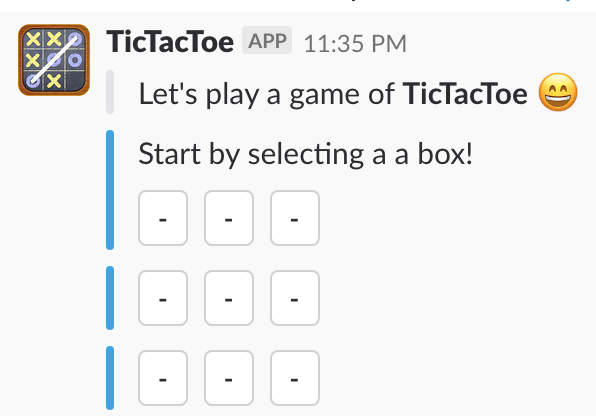
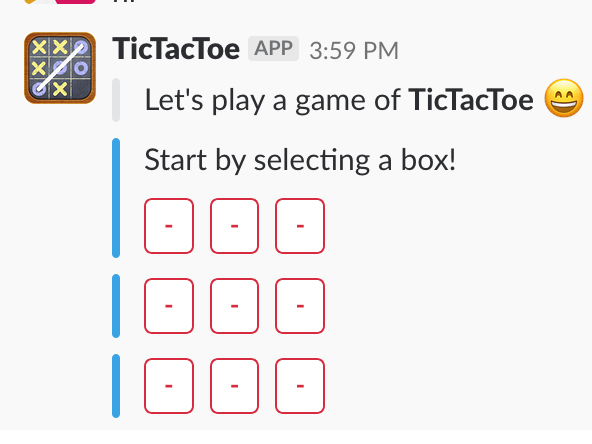
Formating of the codebase & Json Server runtime file updates with content reset once a play is a WIN/DRAW Update colors to the board for completeness Update Readme with documentation Adding Pics
TODO:
Test Cases
Readme

diff --git a/server/server.js b/server/server.js
@@ -1,92 +1,41 @@
 const express = require('express')
 require('dotenv').config()
-const request = require('request')
 const bodyParser = require('body-parser')
 const ticktactoe = require('./tictactoe')
-const msgTable = require('./utils/bodyContent')
+let msgTable = require('./utils/bodyContent')
+const msgTableOrig = require('./utils/bodyContent')
+const sendChatUpdate = require('./slackApiRequests').sendChatUpdate
+const sendMessageToSlackResponseURL = require('./slackApiRequests').sendMessageToSlackResponseURL
+const resetMessage = require('./helper').resetMessage
 const port = process.env.PORT || 5000
-const msgTableOrig = Object.assign({}, msgTable)
 
 const app = express()
 app.use(bodyParser.urlencoded({
   extended: false
 }))
 
-function sendChatUpdate (responseURL, message, currentPlayer, slot) {
-  if (slot === '1' || '2' || '3') {
-    for (let i = 0; i < 3; i++) {
-      if (msgTable.attachments[0].actions[i].value === slot) {
-        msgTable.attachments[0].actions[i].text = currentPlayer
-      }
-    }
-  } else if (slot === '4' || '5' || '6') {
-    for (let j = 0; j < 3; j++) {
-      if (msgTable.attachments[1].actions[j].value === slot) {
-        msgTable.attachments[1].actions[j].text = currentPlayer
-      }
-    }
-  } else if (slot === '7' || '8' || '9') {
-    for (let k = 0; k < 3; k++) {
-      if (msgTable.attachments[2].actions[k].value === slot) {
-        msgTable.attachments[2].actions[k].text = currentPlayer
-      }
-    }
-  }
-  const postOptions = {
-    uri: responseURL,
-    method: 'POST',
-    headers: {
-      'content-type': 'application/json'
-    },
-    json: msgTable
-  }
-  request(postOptions, (error, response, body) => {
-    if (error) {
-      console.error('Received an error: ', error)
-    }
-  })
-}
-
-function sendMessageToSlackResponseURL (responseURL, winMessage) {
-  var postOptions = {
-    uri: responseURL,
-    method: 'POST',
-    headers: {
-      'content-type': 'application/json'
-    },
-    json: winMessage
-  }
-  request(postOptions, (error, response, body) => {
-    if (error) {
-      console.error('Received an error: ', error)
-    }
-  })
-}
-
 app.post('/api/actions', (req, res) => {
   const payload = JSON.parse(req.body.payload)
   const slot = payload.actions[0].value
   const responseURL = payload.response_url
-  console.log(payload)
-  console.log('Slot selected in the GUI: ' + slot)
-  const message = {
-    'replace_original': false,
-    'text': payload.user.name + ' : ' + slot
-  }
-  const winMessage = {
-    'replace_original': false,
-    'delete_original': false,
-    'response_type': 'ephemeral',
-    'text': slot
-  }
   res.status(200).end()
   ticktactoe(false, slot).then((data) => {
-    console.log('Tictactoe DATA: ', data)
+    console.log('Tictactoe promise response DATA: ', data)
     if (data.winStatus) {
+      const winMessage = {
+        'replace_original': false,
+        'delete_original': false,
+        'response_type': 'in_channel',
+        'text': payload.channel.name + ' : ' + payload.user.name + ' : ' + data.user + ' : ' + data.msg
+      }
+      sendChatUpdate(responseURL, msgTable, data.user, slot)
       sendMessageToSlackResponseURL(responseURL, winMessage)
     } else {
-      message.data = data
-      sendChatUpdate(responseURL, msgTable, data.player, slot)
+      const message = {
+        'replace_original': false,
+        'text': payload.channel.name + ' : ' + payload.user.name + ' : ' + data.user + ' : ' + data.msg
+      }
+      sendChatUpdate(responseURL, msgTable, data.user, slot)
       sendMessageToSlackResponseURL(responseURL, message)
     }
   })
@@ -94,7 +43,8 @@ app.post('/api/actions', (req, res) => {
 
 app.post('/api/start', (req, res) => {
   ticktactoe(true, 0)
-  res.send(msgTableOrig)
+  resetMessage(msgTable)
+  res.send(msgTable)
 })
 
 // ============================05/16/2018 Sheela Chennamaneni

diff --git a/server/tictactoe.js b/server/tictactoe.js
@@ -4,7 +4,7 @@ let count
 
 async function populateBoard () {
     // Initialize the Board with place '-''s
-  console.log('Calling the tictacktoe!!!')
+  console.log('>>> Started the game tictacktoe!!!')
   count = 0
   for (let i = 0; i < 9; i++) {
     ch[i] = '-'
@@ -76,43 +76,39 @@ const winner = async function winner (changePlayer) {
     await printBoard()
     return true
   }
+  count++
 }
 
 const tictactoe = async function (gameStart, slot) {
   if (gameStart) {
     await populateBoard()
     console.log('Player X will start first')
+    await printBoard()
     return
   }
-  // await printBoard()
-  console.log('Called ticktactoe: ', gameStart, slot)
   await printBoard()
-  if (count === 9) {
-    console.log('Game is a draw. GoodBye !!!')
-    return {winStatus: false, msg: 'Game is a draw. GoodBye !!!', player: currentPlayer}
-  }
-  console.log('Player ' + currentPlayer + ' a number between 1 and 9 to select a spot')
-  if (slot > 9 || slot < 1) {
-    console.log('Wrong input number. Try Again!')
-    return {winStatus: false, msg: 'Wrong input number. Try Again!', player: currentPlayer}
-  }
   if (ch[slot - 1] === '-') {
     ch[slot - 1] = currentPlayer
     await printBoard()
   } else if ((ch[slot - 1] === 'X') || (ch[slot - 1] === 'O')) {
     console.log('Slot already taken please choose next other number')
-    return {winStatus: false, msg: 'Slot already taken please choose next other number', player: currentPlayer}
+    return {winStatus: false, msg: 'Slot already taken please choose next other number', user: currentPlayer}
   }
   if (await winner()) {
     console.log('Returning WIN!')
-    return {winStatus: true, msg: 'Returning WIN!', player: currentPlayer}
+    return {winStatus: true, msg: ' WiNNER!.  Start new game `/ttt start`', user: currentPlayer}
   } else {
-    console.log('Not a winner Yet!')
-    const player = Object.assign({}, currentPlayer)
+    if (count === 9) {
+      console.log('Game is a draw. GoodBye !!!')
+      return {winStatus: true, msg: 'Games is DRAW. Start new game `/ttt start`', user: currentPlayer}
+    }
+    console.log('No winner Yet!')
+    const player = currentPlayer
+    console.log('currentPlayer: ', currentPlayer)
+    console.log('player: ', player)
     await switchPlayer()
-    return {winStatus: false, msg: 'Not a winner Yet!', player: player}
+    return {winStatus: false, msg: 'Not a winner Yet!', user: player}
   }
-  count++
 }
 
 module.exports = tictactoe

diff --git a/server/utils/bodyContent.js b/server/utils/bodyContent.js
@@ -11,16 +11,19 @@ const msgTable =
         'name': 'game',
         'text': '-',
         'type': 'button',
+        'style': 'primary',
         'value': '1'
       }, {
         'name': 'game',
         'text': '-',
         'type': 'button',
+        'style': 'primary',
         'value': '2'
       }, {
         'name': 'game',
         'text': '-',
         'type': 'button',
+        'style': 'primary',
         'value': '3'
       }]
     }, {
@@ -33,16 +36,19 @@ const msgTable =
         'name': 'game',
         'text': '-',
         'type': 'button',
+        'style': 'primary',
         'value': '4'
       }, {
         'name': 'game',
         'text': '-',
         'type': 'button',
+        'style': 'primary',
         'value': '5'
       }, {
         'name': 'game',
         'text': '-',
         'type': 'button',
+        'style': 'primary',
         'value': '6'
       }]
     }, {
@@ -55,18 +61,22 @@ const msgTable =
         'name': 'game',
         'text': '-',
         'type': 'button',
+        'style': 'primary',
         'value': '7'
       }, {
         'name': 'game',
         'text': '-',
         'type': 'button',
+        'style': 'primary',
         'value': '8'
       }, {
         'name': 'game',
         'text': '-',
         'type': 'button',
+        'style': 'primary',
         'value': '9'
       }]
     }]
   }
+
 module.exports = msgTable

diff --git a/Readme.md b/Readme.md
@@ -1,88 +1,21 @@
-# TicTacToe Game on Slack for Users #
+# TicTacToe Game App for Slackers #
 
-Simple Node Express Server listening on the events from Slack and running the game
+A Simple Node Express Server listening on the events from Slack and running the 2-player TickTacToe game
 
-<b>References:</b>
-
-Integrations:
-
+<b>Integration Reference Material:</b>
 Into Slack using Node documentation: https://api.slack.com/tutorials/intro-to-message-buttons
 Setup Oauth App in Slack: https://api.slack.com/tutorials/app-creation-and-oauth
- 
-How to build TickTacToe - Algo: https://medium.com/@ojusmilindsave/tutorial-to-implement-tic-tac-toe-in-java-ad639661a9b 
+How to build TickTacToe - Algo: https://medium.com/@ojusmilindsave/tutorial-to-implement-tic-tac-toe-in-java-ad639661a9b
 
+* Prerequisites:
 
-JSON - Display in Slack
-```json
-  {
-    "text": "> Let's play a game of *TicTacToe* :smile:",
-    "attachments": [{
-      "text": "Start by selecting a box!",
-      "fallback": "You are unable to choose a game",
-      "callback_id": "wopr_game",
-      "color": "#3AA3E3",
-      "attachment_type": "default",
-      "actions": [{
-        "name": "game",
-        "text": "-",
-        "type": "button",
-        "value": "1"
-      }, {
-        "name": "game",
-        "text": "-",
-        "type": "button",
-        "value": "2"
-      }, {
-        "name": "game",
-        "text": "-",
-        "type": "button",
-        "value": "3"
-      }]
-    }, {
-      "text": "",
-      "fallback": "You are unable to choose a game",
-      "callback_id": "wopr_game",
-      "color": "#3AA3E3",
-      "attachment_type": "default",
-      "actions": [{
-        "name": "game",
-        "text": "-",
-        "type": "button",
-        "value": "4"
-      }, {
-        "name": "game",
-        "text": "-",
-        "type": "button",
-        "value": "5"
-      }, {
-        "name": "game",
-        "text": "-",
-        "type": "button",
-        "value": "6"
-      }]
-    }, {
-      "text": "",
-      "fallback": "You are unable to choose a game",
-      "callback_id": "wopr_game",
-      "color": "#3AA3E3",
-      "attachment_type": "default",
-      "actions": [{
-        "name": "game",
-        "text": "-",
-        "type": "button",
-        "value": "7"
-      }, {
-        "name": "game",
-        "text": "-",
-        "type": "button",
-        "value": "8"
-      }, {
-        "name": "game",
-        "text": "-",
-        "type": "button",
-        "value": "9"
-      }]
-    }]
-  }
-````
+* HOW TO:
+
+* TODO:
+
+#Intial Screen:
 ![alt text](./SlackGameView.png)
+#Winner Screen:
+![alt text](./SlackGameWinner.png)
+#Draw Screen:
+![alt text](./SlackGameDraw.png)
